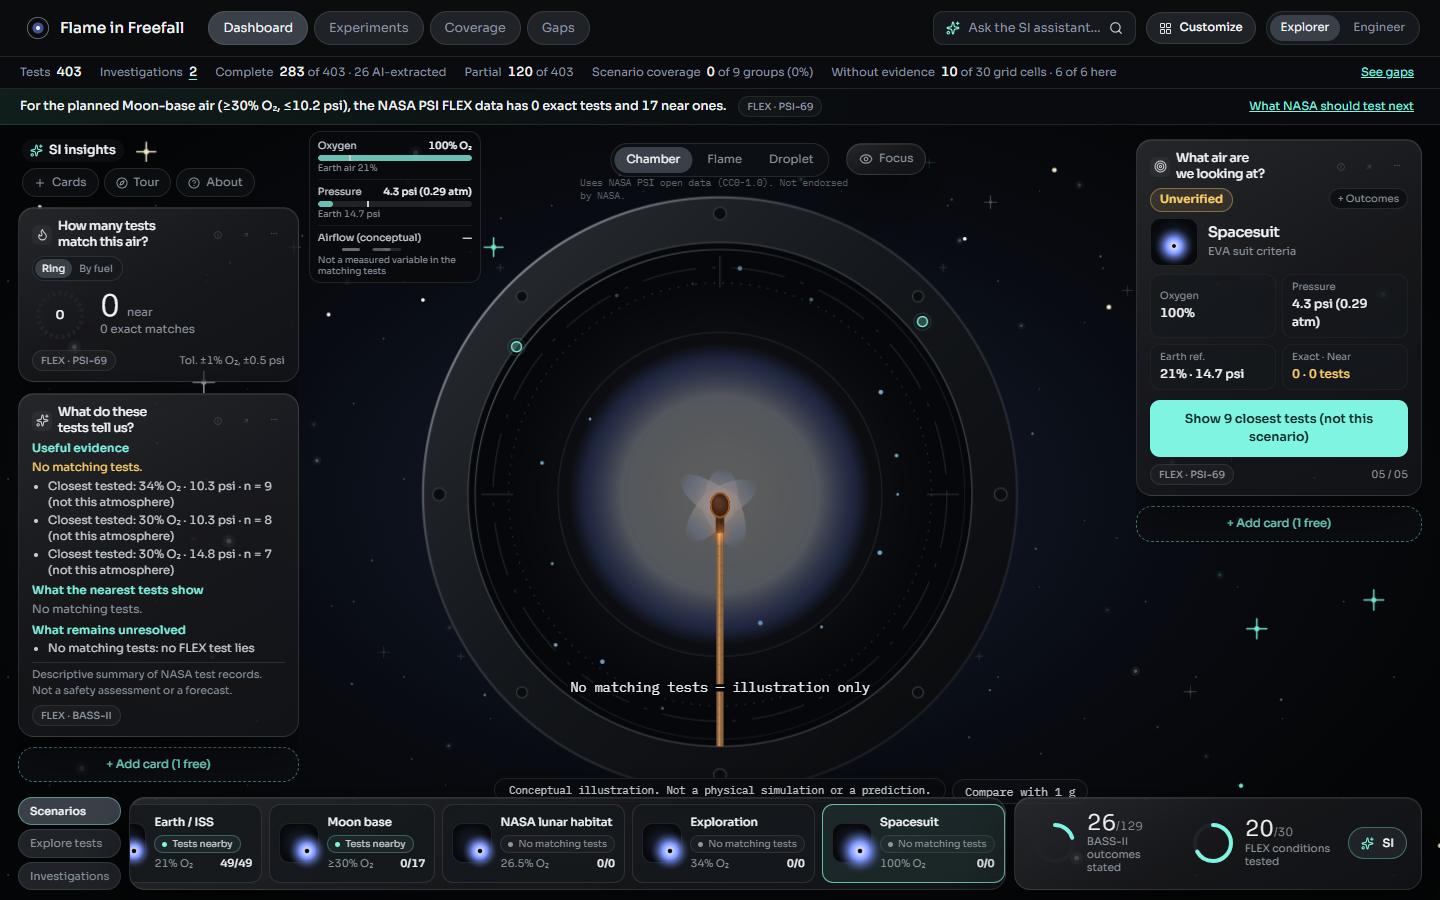
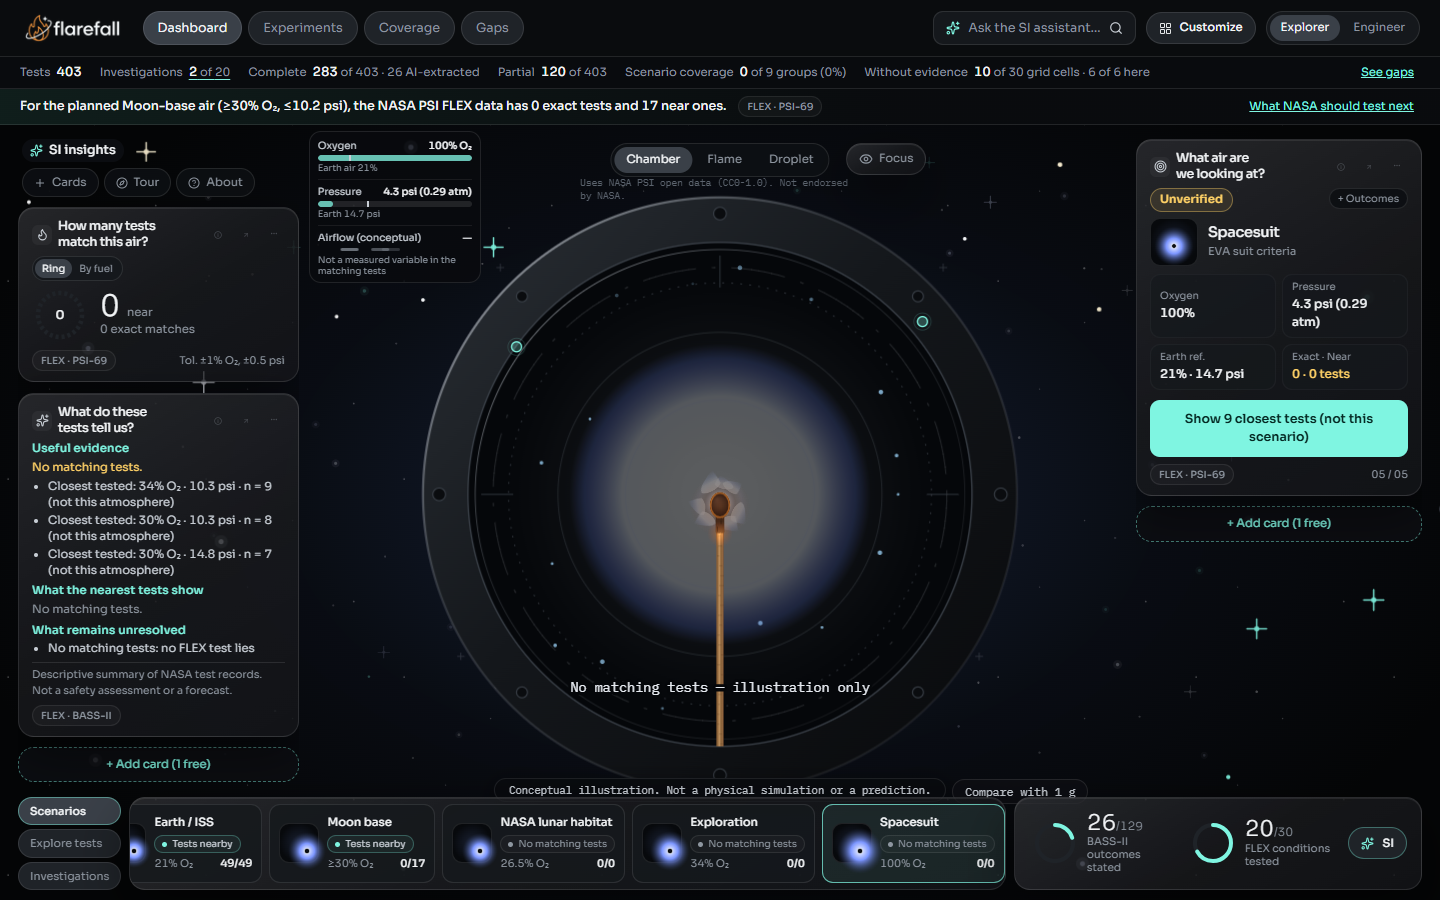
feat(scene): microgravity fire as a corona of flame-shaped tongues around a sphere with a breathing shell
- 22 tongues (15 + 7, counts with no common divisor so the two rings never share a rotational symmetry; 11 + 5 on
  a phone) shaped like flames: wide rounded base, a tip that narrows and curls to one side; they start on the sphere
  surface, lean both ways, have similar sizes with a small variation and slightly irregular angles; tips fade out.
- Faint outer shell that breathes; each tongue flickers with its own duration, phase and amplitude.
- 1 g reference unchanged in meaning (candle tear-drop upward). Ember: short, faint tongues.
- Kept: burning / ember / out / none, flameLook colours, screen blending, no SVG filters, reduced motion,
  pause when hidden, fewer elements on a phone. Tests updated (no property removed): spread all around with no
  bias, >= 14 tongues of similar size, no rosette, flame shape, 1 g upward, ember fainter, out/none draw nothing.
- 3 visual iterations with Playwright captures; docs/screenshots/flame-*.png refreshed.

AI-assisted: yes

Changed region(s): [[0.0, 0.0, 0.8125, 0.0933], [0.4688, 0.5289, 0.5312, 0.5911]]

diff --git a/frontend/src/components/FlameArt.tsx b/frontend/src/components/FlameArt.tsx
@@ -106,7 +106,7 @@ export interface FireProps {
 const HX = 800, HY = 490;                       // match head centre
 const rr = (i: number, k: number) => { const x = Math.sin(i * 127.1 + k * 311.7) * 43758.5453; return x - Math.floor(x); };
 export type FireLayer = 'outer' | 'inner';
-interface Tongue { rot: number; len: number; w: number; dur: number; delay: number; amp: number; skew: number }
+interface Tongue { rot: number; len: number; w: number; dur: number; delay: number; amp: number; skew: number; base: number; lean: number }
 /**
  * Lobes of flame around the head. Microgravity: SHORT, BROAD, round-tipped lobes spread all around (no buoyancy, so no
  * preferred direction), overlapping in an outer and an inner layer like the outer / inner zones of a flame, with small
@@ -115,31 +115,48 @@ interface Tongue { rot: number; len: number; w: number; dur: number; delay: numb
  */
 export function fireTongues(n: number, oneG: boolean, layer: FireLayer = 'outer'): Tongue[] {
   const k = layer === 'inner' ? 20 : 0;                     // different seeds per layer
-  const off = layer === 'inner' ? 180 / Math.max(1, n) : 0;  // inner lobes sit between the outer ones
+  const off = layer === 'inner' ? 11 : 0;                    // the rings do not share angles
   return Array.from({ length: n }, (_, i) => {
     const j = (a: number) => rr(i, a + k);
-    const rot = oneG
-      ? (layer === 'inner' ? -8 : -16) + ((layer === 'inner' ? 16 : 32) * i) / Math.max(1, n - 1) + (j(1) - 0.5) * 6
-      : (360 * i) / n + off + (j(1) - 0.5) * 34;
-    const len = oneG
-      ? (layer === 'inner' ? 70 + j(2) * 22 : 118 + j(2) * 34) - Math.abs(rot) * 0.8
-      : layer === 'inner' ? 62 + j(2) * 18 : 96 + j(2) * 28;     // just past the scene glow (r ≈ 95), never the old long spikes
-    const w = oneG ? (layer === 'inner' ? 15 + j(3) * 5 : 24 + j(3) * 8) : layer === 'inner' ? 27 + j(3) * 9 : 38 + j(3) * 14;
+    if (oneG) {
+      const rot = (layer === 'inner' ? -7 : -13) + ((layer === 'inner' ? 14 : 26) * i) / Math.max(1, n - 1) + (j(1) - 0.5) * 5;
+      const len = (layer === 'inner' ? 72 + j(2) * 18 : 122 + j(2) * 26) - Math.abs(rot) * 0.9;
+      const w = layer === 'inner' ? 15 + j(3) * 4 : 25 + j(3) * 7;
+      return { rot, len, w, base: 0, lean: 0, dur: 0.6 + j(4) * 0.7, delay: -j(5) * 3, amp: 0.6 + j(6) * 0.8, skew: (j(7) - 0.5) * w * 0.6 };
+    }
+    // Microgravity: a corona of short flame tongues licking out from the surface of the luminous sphere, all around.
+    // Similar sizes (small variation only), slightly irregular angles; each one leans and curls to its own side and the
+    // neighbours overlap, so the ring reads as licking fire and not as separate petals.
+    const rot = (360 * i) / n + off + (j(1) - 0.5) * (300 / n);
+    const len = layer === 'inner' ? 40 + j(2) * 13 : 56 + j(2) * 20;
+    const w = layer === 'inner' ? 14 + j(3) * 4 : 19 + j(3) * 6;
+    const side = j(7) < 0.5 ? -1 : 1;
+    const curl = side * (0.5 + j(8) * 0.45) * w;
     return {
-      rot, len, w,
-      dur: (layer === 'inner' ? 0.7 : 1.05) + j(4) * (layer === 'inner' ? 0.8 : 1.3),
-      delay: -j(5) * 3, amp: 0.55 + j(6) * 0.9, skew: (j(7) - 0.5) * w * 0.5,
+      rot, len, w, base: layer === 'inner' ? 26 : 46, lean: side * (6 + j(9) * 14),
+      dur: (layer === 'inner' ? 0.55 : 0.8) + j(4) * (layer === 'inner' ? 0.6 : 0.9),
+      delay: -j(5) * 3, amp: 0.6 + j(6) * 0.8, skew: curl,
     };
   });
 }
-/** Lobe with a ROUNDED tip (horizontal tangent at the top) and a rounded base. `tip` = how broad the dome is (0.2 candle, 0.6 round). */
+/**
+ * Flame-tongue shape pointing to −y: a wide ROUNDED base, flanks that narrow towards a soft tip, and the tip shifted by
+ * `curl` so it bends a little to one side (asymmetric flanks). No straight needle and no symmetric petal.
+ */
+export const flamePath = (L: number, w: number, curl: number) =>
+  `M${-w} 0 C${-w * 1.05} ${-L * 0.38} ${-w * 0.42 + curl * 0.35} ${-L * 0.66} ${curl} ${-L} ` +
+  `C${w * 0.3 + curl * 0.55} ${-L * 0.76} ${w * 1.08} ${-L * 0.42} ${w} 0 C${w * 0.6} ${w * 0.85} ${-w * 0.6} ${w * 0.85} ${-w} 0 Z`;
+/** Kept for reference: lobe with a round dome tip (the previous design). */
 export const lobePath = (L: number, w: number, s: number, tip: number) =>
   `M${-w} 0 C${-w} ${-L * 0.55} ${-w * tip + s} ${-L} ${s} ${-L} C${w * tip + s} ${-L} ${w} ${-L * 0.55} ${w} 0 C${w * 0.55} ${w * 0.75} ${-w * 0.55} ${w * 0.75} ${-w} 0 Z`;
-/** Lobe counts per layer: fewer on a phone, a faint few as an ember. */
+/**
+ * Tongue counts per ring: fewer on a phone, a faint few as an ember. The two microgravity rings have counts with no
+ * common divisor (15 and 7, 11 and 5), so they never share a rotational symmetry (no rosette).
+ */
 export function fireCounts(oneG: boolean, phone: boolean, ember: boolean): { outer: number; inner: number } {
-  if (ember) return { outer: 5, inner: 0 };             // 5, not 4: four evenly spaced lobes read as a cross
+  if (ember) return { outer: 7, inner: 0 };
   if (oneG) return phone ? { outer: 3, inner: 2 } : { outer: 4, inner: 3 };
-  return phone ? { outer: 5, inner: 3 } : { outer: 7, inner: 5 };
+  return phone ? { outer: 11, inner: 5 } : { outer: 15, inner: 7 };
 }
 
 export const FireTongues = memo(function FireTongues({ look, oneG, scale, mode, grayscale, strong, intensity, lifecycle, animated, paused, phone }: FireProps) {
@@ -152,13 +169,12 @@ export const FireTongues = memo(function FireTongues({ look, oneG, scale, mode, 
   const sc = ember ? scale * 0.3 : oneG ? 1 : scale;
   const sparkN = ember ? 0 : phone ? 3 : 6;
   const op = ember ? 0.32 : Math.min(0.9, 0.55 + 0.4 * intensity);
-  const tip = oneG ? 0.22 : 0.62;
   const stops = oneG ? ['#FFE9A8', '#FF9A3C', '#D8401A'] : grayscale ? ['#E6E6E6', '#A8A8A8', '#707070'] : [look.core, look.mid, look.edge];
   const lobe = (t: Tongue, i: number, layer: FireLayer) => (
-    <g key={`${layer}${i}`} transform={`rotate(${t.rot.toFixed(1)})`}>
+    <g key={`${layer}${i}`} transform={`rotate(${t.rot.toFixed(1)}) translate(0 ${-t.base}) rotate(${(ember ? t.lean * 0.25 : t.lean).toFixed(1)})${ember ? ' scale(1.15 0.55)' : ''}`}>
       <g className={animated ? `ft fl${layer === 'inner' ? ' fl-in' : ''}` : undefined}
         style={{ ['--dur' as string]: `${t.dur.toFixed(2)}s`, ['--delay' as string]: `${t.delay.toFixed(2)}s`, ['--amp' as string]: t.amp.toFixed(2) }}>
-        <path d={lobePath(t.len, t.w, t.skew, tip)} fill={layer === 'inner' ? 'url(#fireLobeIn)' : 'url(#fireLobe)'} opacity={layer === 'inner' ? 0.85 : 0.78} />
+        <path d={flamePath(t.len, t.w, t.skew)} fill={layer === 'inner' ? 'url(#fireLobeIn)' : 'url(#fireLobe)'} opacity={layer === 'inner' ? 0.85 : 0.8} />
       </g>
     </g>
   );
@@ -168,8 +184,8 @@ export const FireTongues = memo(function FireTongues({ look, oneG, scale, mode, 
       <defs>
         {/* outer zone: from the body colour at the base to a transparent edge at the rounded tip */}
         <linearGradient id="fireLobe" x1="0" y1="1" x2="0" y2="0">
-          <stop offset="0" stopColor={stops[0]} stopOpacity="0.9" /><stop offset="0.5" stopColor={stops[1]} stopOpacity="0.85" />
-          <stop offset="0.82" stopColor={stops[2]} stopOpacity="0.6" /><stop offset="1" stopColor={stops[2]} stopOpacity="0.05" />
+          <stop offset="0" stopColor={stops[0]} stopOpacity="0.9" /><stop offset="0.42" stopColor={stops[1]} stopOpacity="0.8" />
+          <stop offset="0.72" stopColor={stops[2]} stopOpacity="0.45" /><stop offset="0.95" stopColor={stops[2]} stopOpacity="0" />
         </linearGradient>
         {/* inner zone: brighter and hotter, fades sooner */}
         <linearGradient id="fireLobeIn" x1="0" y1="1" x2="0" y2="0">
@@ -179,10 +195,14 @@ export const FireTongues = memo(function FireTongues({ look, oneG, scale, mode, 
         {/* luminous sphere: core → mid → edge */}
         <radialGradient id="fireSphere"><stop offset="0" stopColor={stops[0]} /><stop offset="0.3" stopColor={stops[0]} stopOpacity="0.92" />
           <stop offset="0.65" stopColor={stops[1]} stopOpacity="0.6" /><stop offset="1" stopColor={stops[2]} stopOpacity="0" /></radialGradient>
+        {/* faint outer shell that breathes: transparent inside, a thin warm rim, fading out */}
+        <radialGradient id="fireShell"><stop offset="0.55" stopColor={stops[1]} stopOpacity="0" /><stop offset="0.8" stopColor={stops[2]} stopOpacity="0.22" />
+          <stop offset="1" stopColor={stops[2]} stopOpacity="0" /></radialGradient>
         <radialGradient id="fireCore"><stop offset="0" stopColor="#FFFFFF" /><stop offset="0.5" stopColor={stops[0]} stopOpacity="0.9" /><stop offset="1" stopColor={stops[1]} stopOpacity="0" /></radialGradient>
       </defs>
       <g transform={`translate(${HX} ${HY}) scale(${sc})`}>
-        {!oneG && <circle className={animated ? 'fire-sphere' : undefined} cx="0" cy="0" r={ember ? 40 : 58} fill="url(#fireSphere)" data-part="fire-sphere" />}
+        {!oneG && <circle className={animated ? 'fire-shell' : undefined} cx="0" cy="0" r={ember ? 70 : 104} fill="url(#fireShell)" data-part="fire-shell" />}
+        {!oneG && <circle className={animated ? 'fire-sphere' : undefined} cx="0" cy="0" r={ember ? 40 : 60} fill="url(#fireSphere)" data-part="fire-sphere" />}
         {outer.map((t, i) => lobe(t, i, 'outer'))}
         {inner.map((t, i) => lobe(t, i, 'inner'))}
         <circle className={animated ? 'fire-core' : undefined} cx="0" cy={oneG ? -16 : 0} r={oneG ? 20 : 28} fill="url(#fireCore)" />

diff --git a/frontend/src/components/FireTongues.test.tsx b/frontend/src/components/FireTongues.test.tsx
@@ -1,59 +1,81 @@
 import { render } from '@testing-library/react';
 import { describe, expect, it } from 'vitest';
 import { flameLook } from '../lib/flameLook';
-import { FireTongues, fireCounts, fireTongues, lobePath, type FireProps } from './FlameArt';
+import { FireTongues, fireCounts, fireTongues, flamePath, type FireProps } from './FlameArt';
 
 const base: FireProps = { look: flameLook(0.21, 14.7), oneG: false, scale: 1, mode: 'burning', grayscale: false, strong: false, intensity: 0.9, lifecycle: true, animated: true, paused: false, phone: false };
 const norm = (r: number) => ((r % 360) + 360) % 360;
+const gcd = (a: number, b: number): number => (b === 0 ? a : gcd(b, a % b));
+const count = (p: Partial<FireProps>) => render(<svg><FireTongues {...base} {...p} /></svg>).container.querySelector('[data-tongues]')?.getAttribute('data-tongues') ?? null;
 
-describe('fire layer (round-tipped lobes, not a star)', () => {
-  it('microgravity: lobes spread all around the head (no preferred direction), short and broad, in both layers', () => {
-    for (const layer of ['outer', 'inner'] as const) {
-      const l = fireTongues(layer === 'outer' ? 7 : 5, false, layer), rots = l.map((t) => norm(t.rot));
+describe('fire layer: a corona of flame tongues around a luminous sphere (not a star, flower or atom)', () => {
+  it('microgravity: tongues spread all around the sphere (no preferred direction), in both rings', () => {
+    const c = fireCounts(false, false, false);
+    for (const [layer, n] of [['outer', c.outer], ['inner', c.inner]] as const) {
+      const rots = fireTongues(n, false, layer).map((t) => norm(t.rot));
       expect(Math.max(...rots) - Math.min(...rots)).toBeGreaterThan(250);
-      expect(Math.max(...l.map((t) => t.len))).toBeLessThan(130);            // was up to 144 and needle-thin: read as a star
-      expect(Math.min(...l.map((t) => t.w / t.len))).toBeGreaterThan(0.3);   // broad (old spikes were ≈ 0.1–0.25), not needle-like
     }
-    // no upward bias: the mean direction vector of all lobes is short compared with one lobe
-    const all = [...fireTongues(7, false, 'outer'), ...fireTongues(5, false, 'inner')];
+    const all = [...fireTongues(c.outer, false, 'outer'), ...fireTongues(c.inner, false, 'inner')];
     const vx = all.reduce((s, t) => s + Math.sin((t.rot * Math.PI) / 180), 0) / all.length;
     const vy = all.reduce((s, t) => s - Math.cos((t.rot * Math.PI) / 180), 0) / all.length;
-    expect(Math.hypot(vx, vy)).toBeLessThan(0.35);
+    expect(Math.hypot(vx, vy)).toBeLessThan(0.2);                       // no upward (or any) bias
   });
 
-  it('microgravity: no star symmetry, lengths, widths and angles vary a little (deterministic)', () => {
-    const l = fireTongues(7, false, 'outer');
-    expect(new Set(l.map((t) => t.len.toFixed(1))).size).toBe(l.length);
-    expect(new Set(l.map((t) => t.w.toFixed(1))).size).toBe(l.length);
+  it('microgravity: at least 14 short tongues of similar size (no single long one sticking out)', () => {
+    const c = fireCounts(false, false, false);
+    expect(c.outer + c.inner).toBeGreaterThanOrEqual(14);
+    const outer = fireTongues(c.outer, false, 'outer');
+    const lens = outer.map((t) => t.len);
+    expect(Math.max(...lens)).toBeLessThan(90);                           // short (the old star spikes reached 144)
+    expect(Math.max(...lens) / Math.min(...lens)).toBeLessThan(1.4);     // similar sizes
+    expect(Math.min(...outer.map((t) => t.w / t.len))).toBeGreaterThan(0.25); // broad base, not needle-like
+  });
+
+  it('no rosette: the two rings have no common rotational symmetry and the angles are slightly irregular', () => {
+    for (const phone of [false, true]) {
+      const c = fireCounts(false, phone, false);
+      expect(c.outer).not.toBe(c.inner);
+      expect(gcd(c.outer, c.inner)).toBe(1);
+    }
+    const l = fireTongues(15, false, 'outer');
     const gaps = l.map((t, i) => norm(l[(i + 1) % l.length].rot - t.rot));
-    expect(Math.max(...gaps) - Math.min(...gaps)).toBeGreaterThan(5);
-    expect(fireTongues(7, false, 'outer')).toEqual(l);
+    expect(Math.max(...gaps) - Math.min(...gaps)).toBeGreaterThan(4);
+    expect(new Set(l.map((t) => t.len.toFixed(1))).size).toBe(l.length);
+    expect(new Set(l.map((t) => Math.sign(t.lean))).size).toBe(2);       // they lean both ways, not a pinwheel
+    expect(fireTongues(15, false, 'outer')).toEqual(l);                   // deterministic
   });
 
-  it('every lobe tip is rounded (horizontal tangent at the top), never a sharp point', () => {
-    const d = lobePath(60, 25, 0, 0.62);
-    const m = d.match(/C(-?[\d.]+) (-?[\d.]+) (-?[\d.]+) (-?[\d.]+) (-?[\d.]+) (-?[\d.]+)/)!;
-    expect(Number(m[4])).toBe(Number(m[6]));                                   // control point at the same height as the tip
-    expect(Math.abs(Number(m[3]) - Number(m[5]))).toBeGreaterThan(5);           // and offset sideways: a dome
+  it('each tongue is flame-shaped: wide rounded base, tip narrower than the base and curled to one side', () => {
+    const d = flamePath(60, 20, 9);
+    const nums = (d.match(/-?\d+(\.\d+)?/g) ?? []).map(Number);
+    expect(nums[0]).toBe(-20);                                            // base half-width
+    const tipX = nums[6], tipY = nums[7];
+    expect(tipY).toBe(-60);
+    expect(tipX).toBe(9);                                                 // curled sideways
+    for (const t of fireTongues(15, false, 'outer')) expect(Math.abs(t.skew)).toBeGreaterThan(0.4 * t.w);
   });
 
-  it('1 g reference: lobes cluster upward and are longer (candle tear-drop)', () => {
+  it('1 g reference: tongues cluster upward and are longer (candle tear-drop)', () => {
     const l = [...fireTongues(4, true, 'outer'), ...fireTongues(3, true, 'inner')];
     expect(l.every((t) => Math.abs(t.rot) <= 45)).toBe(true);
-    expect(Math.max(...l.map((t) => t.len))).toBeGreaterThan(Math.max(...fireTongues(7, false).map((t) => t.len)) * 0.9);
+    expect(Math.max(...l.map((t) => t.len))).toBeGreaterThan(Math.max(...fireTongues(15, false).map((t) => t.len)) * 0.9);
   });
 
-  it('renders 12 lobes on a desktop, fewer on a phone, 5 faint ones as an ember; nothing when out/none', () => {
-    const n = (p: Partial<FireProps>) => render(<svg><FireTongues {...base} {...p} /></svg>).container.querySelector('[data-tongues]')?.getAttribute('data-tongues') ?? null;
+  it('renders 22 tongues on a desktop, fewer on a phone, a few faint ones as an ember; nothing when out/none', () => {
     const c = fireCounts(false, false, false);
-    expect(n({})).toBe(String(c.outer + c.inner)); expect(n({})).toBe('12');
-    expect(Number(n({ phone: true }))).toBeLessThan(12); expect(n({ mode: 'ember' })).toBe('5');
-    expect(n({ mode: 'out' })).toBeNull(); expect(n({ mode: 'none' })).toBeNull();
+    expect(count({})).toBe(String(c.outer + c.inner)); expect(count({})).toBe('22');
+    expect(Number(count({ phone: true }))).toBeLessThan(22);
+    expect(Number(count({ mode: 'ember' }))).toBeLessThan(22);
+    expect(count({ mode: 'out' })).toBeNull(); expect(count({ mode: 'none' })).toBeNull();
   });
 
-  it('microgravity draws a luminous sphere; the 1 g reference does not', () => {
-    expect(render(<svg><FireTongues {...base} /></svg>).container.querySelector('[data-part="fire-sphere"]')).not.toBeNull();
-    expect(render(<svg><FireTongues {...base} oneG /></svg>).container.querySelector('[data-part="fire-sphere"]')).toBeNull();
+  it('microgravity draws a luminous sphere and a breathing outer shell; the 1 g reference does not', () => {
+    const micro = render(<svg><FireTongues {...base} /></svg>).container;
+    expect(micro.querySelector('[data-part="fire-sphere"]')).not.toBeNull();
+    expect(micro.querySelector('[data-part="fire-shell"].fire-shell')).not.toBeNull();
+    const oneG = render(<svg><FireTongues {...base} oneG /></svg>).container;
+    expect(oneG.querySelector('[data-part="fire-sphere"]')).toBeNull();
+    expect(oneG.querySelector('[data-part="fire-shell"]')).toBeNull();
   });
 
   it('ember is fainter than a burning flame', () => {
@@ -61,10 +83,10 @@ describe('fire layer (round-tipped lobes, not a star)', () => {
     expect(op({ mode: 'ember' })).toBeLessThan(op({}));
   });
 
-  it('reduced motion: the lobes stay in a fixed position (no animation classes)', () => {
+  it('reduced motion: the tongues stay in a fixed position (no animation classes)', () => {
     const { container } = render(<svg><FireTongues {...base} animated={false} /></svg>);
     expect(container.querySelector('.ft')).toBeNull(); expect(container.querySelector('.fire-life')).toBeNull();
-    expect(container.querySelector('.fire-sphere')).toBeNull();
+    expect(container.querySelector('.fire-sphere')).toBeNull(); expect(container.querySelector('.fire-shell')).toBeNull();
   });
 
   it('uses additive-style blending and no filters', () => {

diff --git a/frontend/src/design/global.css b/frontend/src/design/global.css
@@ -2441,3 +2441,6 @@ table.inv-table td { vertical-align: top; white-space: normal; }
 .brand:focus-visible { outline: 2px solid var(--mint); outline-offset: 3px; }
 .brand-logo { display: block; height: 30px; width: auto; }
 @media (max-width: 760px) { .brand-logo { height: 24px; } }
+.fire .fire-shell { transform-box: fill-box; transform-origin: 50% 50%; animation: fireShell 3.6s ease-in-out infinite alternate; }
+@keyframes fireShell { 0% { transform: scale(0.93); opacity: 0.55; } 38% { transform: scale(1.04); opacity: 1; } 71% { transform: scale(0.99); opacity: 0.75; } 100% { transform: scale(1.07); opacity: 0.9; } }
+.fire .ft.fl { transform-origin: 50% 92%; }
